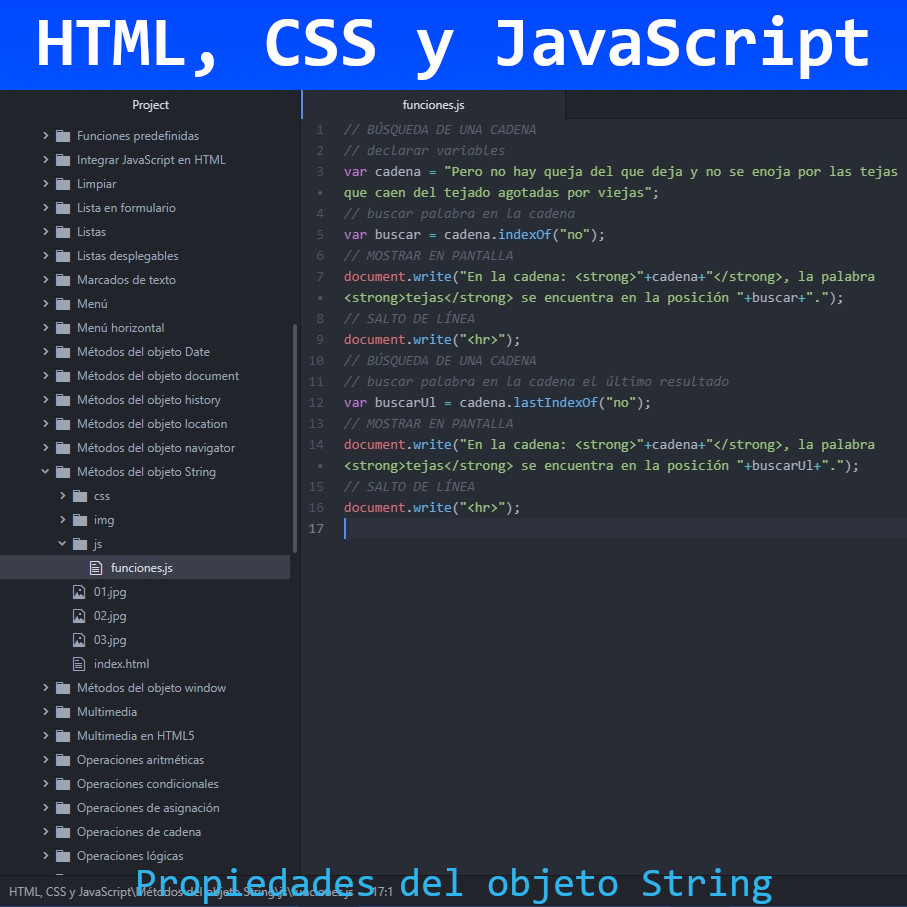
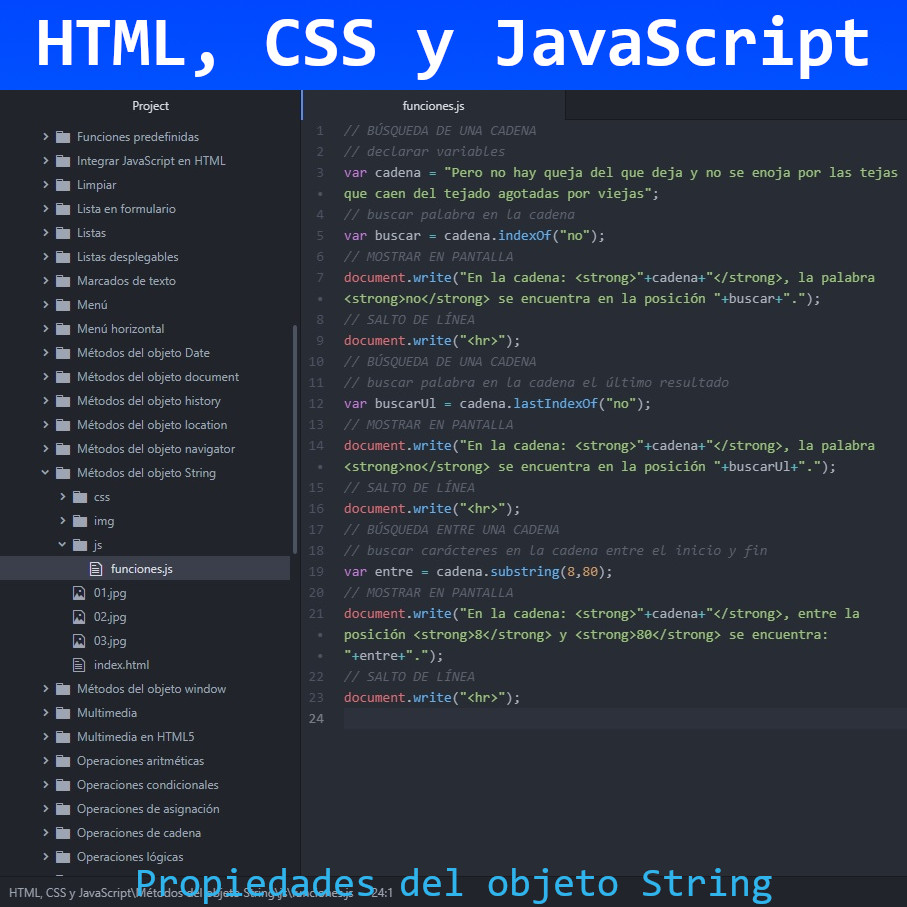
Métodos del objeto String
Métodos del objeto String en JavaScript

diff --git a/HTML, CSS y JavaScript/Métodos del objeto String/js/funciones.js b/HTML, CSS y JavaScript/Métodos del objeto String/js/funciones.js
@@ -4,13 +4,20 @@ var cadena = "Pero no hay queja del que deja y no se enoja por las tejas que cae
 // buscar palabra en la cadena
 var buscar = cadena.indexOf("no");
 // MOSTRAR EN PANTALLA
-document.write("En la cadena: <strong>"+cadena+"</strong>, la palabra <strong>tejas</strong> se encuentra en la posición "+buscar+".");
+document.write("En la cadena: <strong>"+cadena+"</strong>, la palabra <strong>no</strong> se encuentra en la posición "+buscar+".");
 // SALTO DE LÍNEA
 document.write("<hr>");
 // BÚSQUEDA DE UNA CADENA
 // buscar palabra en la cadena el último resultado
 var buscarUl = cadena.lastIndexOf("no");
 // MOSTRAR EN PANTALLA
-document.write("En la cadena: <strong>"+cadena+"</strong>, la palabra <strong>tejas</strong> se encuentra en la posición "+buscarUl+".");
+document.write("En la cadena: <strong>"+cadena+"</strong>, la palabra <strong>no</strong> se encuentra en la posición "+buscarUl+".");
+// SALTO DE LÍNEA
+document.write("<hr>");
+// BÚSQUEDA ENTRE UNA CADENA
+// buscar carácteres en la cadena entre el inicio y fin
+var entre = cadena.substring(8,80);
+// MOSTRAR EN PANTALLA
+document.write("En la cadena: <strong>"+cadena+"</strong>, entre la posición <strong>8</strong> y <strong>80</strong> se encuentra: "+entre+".");
 // SALTO DE LÍNEA
 document.write("<hr>");
